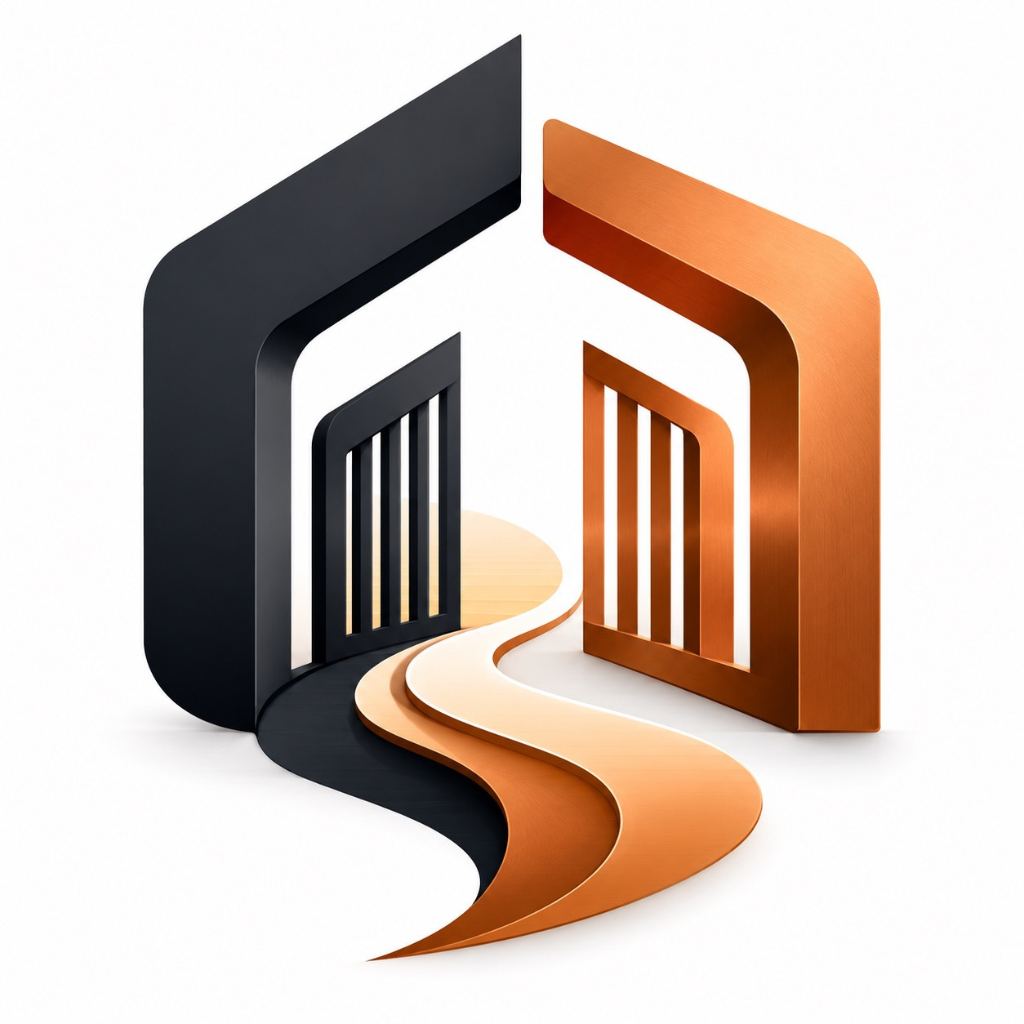
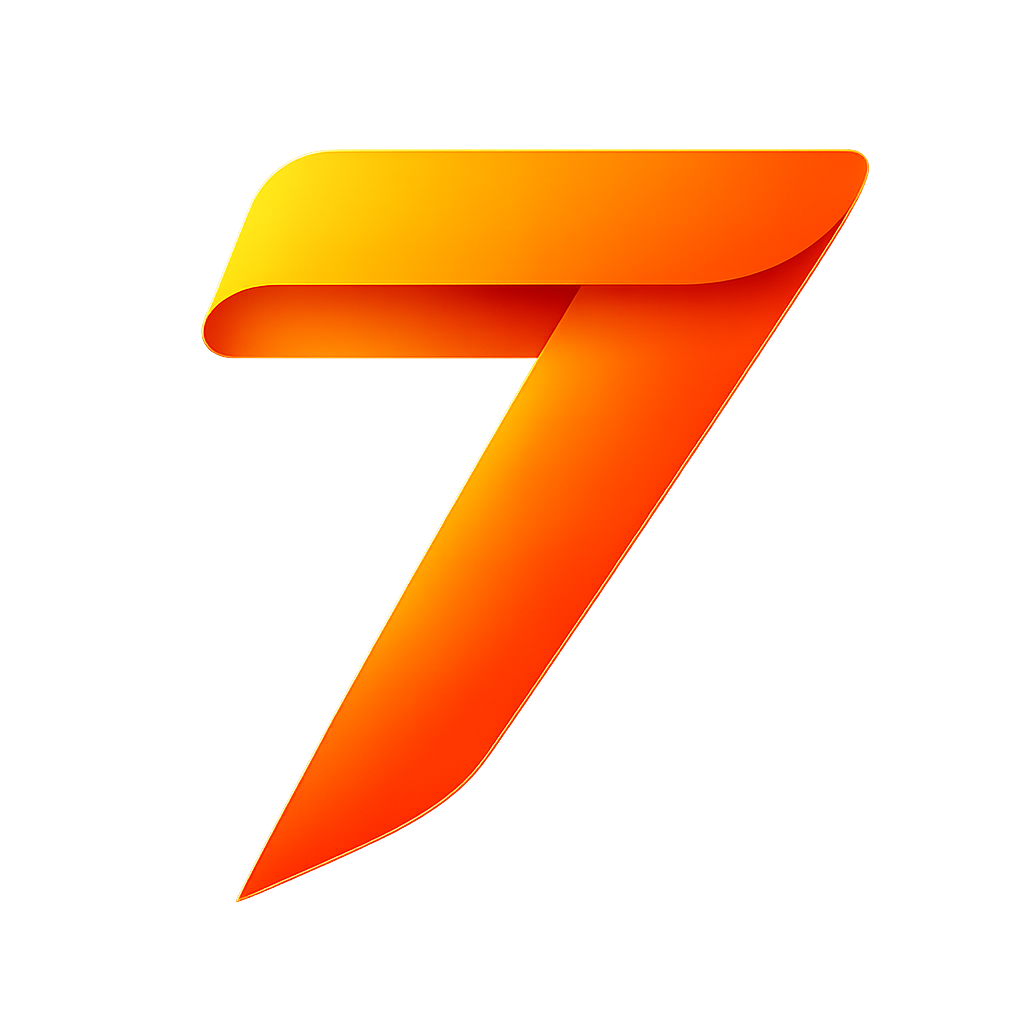
.

diff --git a/src/components/common/AppInput.js b/src/components/common/AppInput.js
@@ -2,9 +2,10 @@
 import React, { useState } from 'react';
 import { StyleSheet, View } from 'react-native';
 import { TextInput, HelperText, useTheme } from 'react-native-paper';
+import { Ionicons } from '@expo/vector-icons';
 
 /**
- * AppInput — React Native Paper TextInput with inline error support.
+ * AppInput — React Native Paper TextInput with Ionicons support.
  *
  * @param {object}   props
  * @param {string}   props.label
@@ -47,11 +48,25 @@ export default function AppInput({
         activeOutlineColor={colors.primary}
         style={styles.input}
         outlineStyle={{ borderRadius: 12 }}
-        left={left ? <TextInput.Icon icon={left} /> : undefined}
+        left={
+          left ? (
+            <TextInput.Icon
+              icon={() => (
+                <Ionicons name={left} size={20} color={colors.onSurfaceVariant} />
+              )}
+            />
+          ) : undefined
+        }
         right={
           secureText ? (
             <TextInput.Icon
-              icon={isPasswordVisible ? 'eye-off' : 'eye'}
+              icon={() => (
+                <Ionicons
+                  name={isPasswordVisible ? 'eye-off-outline' : 'eye-outline'}
+                  size={20}
+                  color={colors.onSurfaceVariant}
+                />
+              )}
               onPress={() => setPasswordVisible((v) => !v)}
             />
           ) : undefined

diff --git a/src/screens/guard/VisitorEntryScreen.js b/src/screens/guard/VisitorEntryScreen.js
@@ -202,13 +202,8 @@ const handleCapturePhoto = async () => {
           setPhotoUrl(null);
           setPhotoError(null);
 
-          // Navigate to OTP screen instead of going back
-          navigation.navigate('OtpVerify', {
-            visitorId:     result.data._id,
-            visitorMobile: values.mobile,
-            visitorName:   values.name,
-            otpSendFailed: !!result.data.otpSendFailed,
-          });
+          // Navigate back to dashboard after successful visitor entry
+          navigation.navigate('GuardDashboard');
         },
       },
     );
@@ -400,7 +395,7 @@ const handleCapturePhoto = async () => {
                 value={value}
                 onChangeText={onChange}
                 error={errors.name?.message}
-                left="account-outline"
+                left="person-outline"
                 autoCapitalize="words"
                 returnKeyType="next"
               />

diff --git a/src/screens/auth/RegisterScreen.js b/src/screens/auth/RegisterScreen.js
@@ -279,7 +279,7 @@ export default function RegisterScreen() {
               value={form.firstName}
               onChangeText={set('firstName')}
               error={errors.firstName}
-              left="account-outline"
+              left="person-outline"
               style={styles.field}
             />
 
@@ -288,7 +288,7 @@ export default function RegisterScreen() {
               value={form.lastName}
               onChangeText={set('lastName')}
               error={errors.lastName}
-              left="account-outline"
+              left="person-outline"
               style={styles.field}
             />
 
@@ -298,7 +298,7 @@ export default function RegisterScreen() {
               onChangeText={set('email')}
               error={errors.email}
               keyboardType="email-address"
-              left="email-outline"
+              left="mail-outline"
               style={styles.field}
             />
 
@@ -363,7 +363,7 @@ export default function RegisterScreen() {
               onChangeText={set('password')}
               error={errors.password}
               secureText
-              left="lock-outline"
+              left="lock-closed-outline"
               style={styles.field}
             />
 
@@ -418,7 +418,7 @@ export default function RegisterScreen() {
                   value={newSociety.address.street}
                   onChangeText={setAddr('street')}
                   error={errors.street}
-                  left="map-marker-outline"
+                  left="location-outline"
                   style={styles.field}
                 />
 

diff --git a/src/api/services/visitorService.js b/src/api/services/visitorService.js
@@ -33,13 +33,6 @@ export const visitorService = {
   /** Guard only */
   checkOutVisitor: (id) =>
     api.patch(`/visitors/${id}/checkout`).then((r) => r.data),
-/** Guard only — verify OTP */
-verifyOtp: (id, otp) =>
-  api.post(`/visitors/${id}/verify-otp`, { otp }).then((r) => r.data),
-
-/** Guard only — resend OTP */
-resendOtp: (id) =>
-  api.post(`/visitors/${id}/resend-otp`).then((r) => r.data),
   /**
    * Guard only — upload visitor photo to Cloudinary via backend.
    * @param {string} imageUri  Local URI from expo-image-picker
@@ -62,4 +55,4 @@ resendOtp: (id) =>
     });
     return response.data; // { success, data: { photoUrl, publicId } }
   },
-};
+};  

diff --git a/src/screens/resident/ProfileScreen.js b/src/screens/resident/ProfileScreen.js
@@ -190,7 +190,7 @@ export default function ProfileScreen() {
         <Surface style={[styles.sectionCard, { backgroundColor: colors.surface }]} elevation={2}>
           <Text variant="titleSmall" style={[styles.sectionLabel, { color: colors.onSurfaceVariant }]}>Account Details</Text>
           <Divider style={{ marginBottom: 12 }} />
-          <ProfileRow icon="account-outline"   label="Name"        value={`${user?.firstName ?? ''} ${user?.lastName ?? ''}`.trim()} colors={colors} />
+          <ProfileRow icon="person-outline"   label="Name"        value={`${user?.firstName ?? ''} ${user?.lastName ?? ''}`.trim()} colors={colors} />
           <ProfileRow icon="shield-outline"   label="Role"        value={user?.role}       colors={colors} />
           <ProfileRow icon="home-outline"     label="Flat Number" value={user?.flatNumber} colors={colors} />
           <ProfileRow icon="calendar-outline" label="Member Since"
@@ -228,7 +228,7 @@ export default function ProfileScreen() {
                     value={value}
                     onChangeText={onChange}
                     error={errors.firstName?.message}
-                    left="account-outline"
+                    left="person-outline"
                   />
                 )}
               />
@@ -241,7 +241,7 @@ export default function ProfileScreen() {
                     value={value}
                     onChangeText={onChange}
                     error={errors.lastName?.message}
-                    left="account-outline"
+                    left="person-outline"
                   />
                 )}
               />

diff --git a/src/screens/admin/NoticesManagementScreen.js b/src/screens/admin/NoticesManagementScreen.js
@@ -269,7 +269,7 @@ export default function NoticesManagementScreen() {
                   value={value}
                   onChangeText={onChange}
                   error={errors.title?.message}
-                  left="text-short"
+                  left="list-outline"
                   autoCapitalize="sentences"
                 />
               )}
@@ -284,7 +284,7 @@ export default function NoticesManagementScreen() {
                   value={value}
                   onChangeText={onChange}
                   error={errors.content?.message}
-                  left="text-long"
+                  left="document-text-outline"
                   multiline
                   numberOfLines={4}
                   autoCapitalize="sentences"

diff --git a/src/screens/auth/LoginScreen.js b/src/screens/auth/LoginScreen.js
@@ -167,7 +167,7 @@ export default function LoginScreen() {
                 keyboardType="email-address"
                 autoCapitalize="none"
                 autoComplete="email"
-                left="email-outline"
+                left="mail-outline"
               />
 
               <AppInput
@@ -176,7 +176,7 @@ export default function LoginScreen() {
                 onChangeText={set('password')}
                 error={errors.password}
                 secureText
-                left="lock-outline"
+                left="lock-closed-outline"
                 style={{ marginTop: 12 }}
               />
 